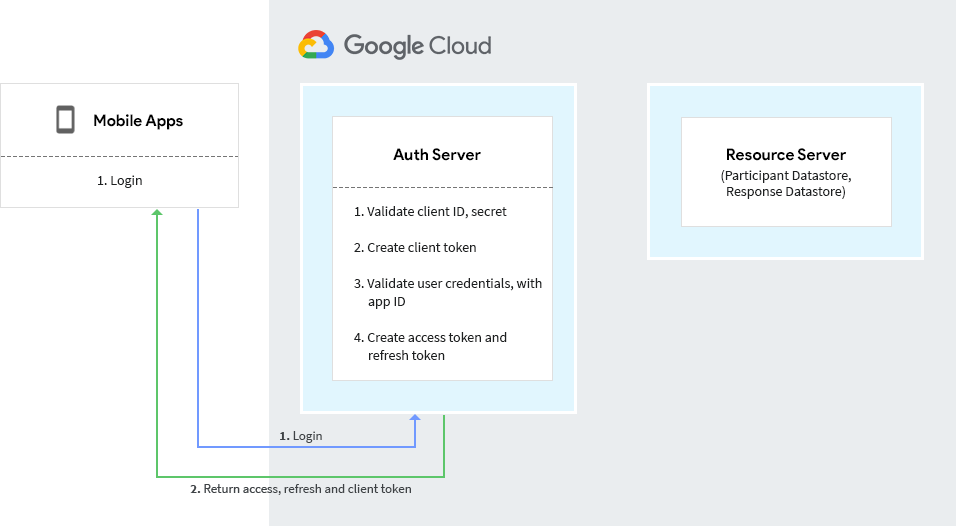
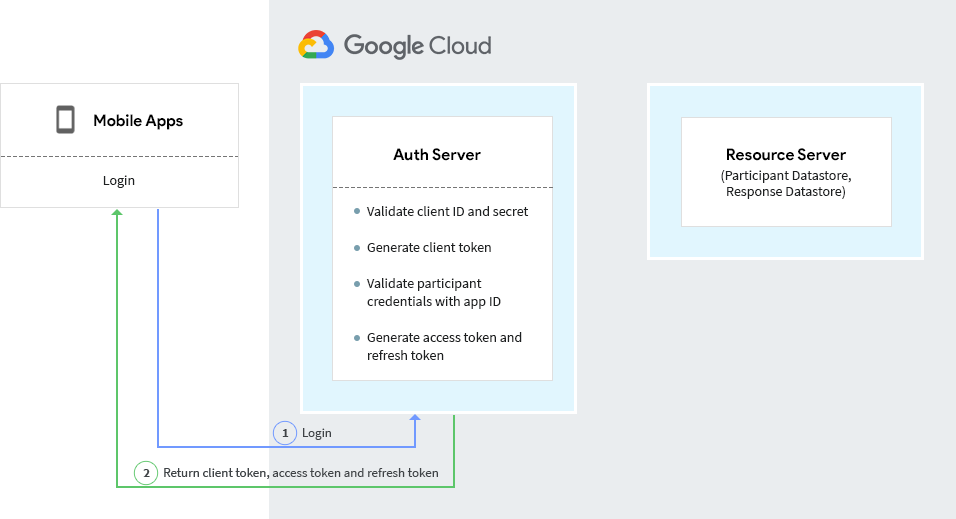
Fixed images, added a new image and modified text/sections in the auth.md document

diff --git a/documentation/auth.md b/documentation/auth.md
@@ -121,16 +121,24 @@ Participants (mobile app users) are authenticated through the login method of th
 The mobile app sends a logout request to the Auth Server. The Auth Server then retrieves the access token from the request and clears the row in the sessions table, which has the access token.
 
 ### Validate Access Token
+
 ![alt_text](images/auth_validate_token.png "Validate access token diagram")
 
 1.  When a mobile app requests access to a protected resource, it passes the client token and access token to the resource server.
-1.  The resource server sends the access token and client token to the Auth Server for validation.
-1.  The Auth Server validates that the token is valid and has not expired.
-1.  If the access token has expired, a message indicating expiry is passed to the resource server.
-1.  The resource server passes this message to the mobile app.
-1.  The mobile app sends the client token and the refresh token to the Auth Server.
-1.  The Auth Server validates the client token and the refresh token .
-1.  The Auth Server generates a new access token and returns it to the mobile app.
+2.  The resource server sends the client token and the access token to the Auth Server for validation.
+3.  The Auth Server validates that the client token and access token are valid and the access token has not expired.
+4.  If the tokens are valid, the resource server returns the requested resource.
+5.  If the clien token or the access token are not valid, the resource server returns an "Access Denied" message.
+
+### Refresh Access Token
+![alt_text](images/auth_refresh_token.png "Refresh access token diagram")
+1.  When a mobile app requests access to a protected resource, it passes the client token and access token to the resource server.
+2.  If the access token has expired, a message indicating expiry is passed to the resource server.
+3.  The resource server passes this message to the mobile app.
+4.  The mobile app sends the client token and the refresh token to the Auth Server.
+5.  The Auth Server validates the client token and the refresh token.
+6.  The Auth Server generates a new access token and returns it to the mobile app.
+
 
 ### Server to Server Authorization
 
@@ -140,3 +148,4 @@ The mobile app sends a logout request to the Auth Server. The Auth Server then r
 1.  The recipient server calls the Auth Server to validate the client credentials and process the call if the credentials are valid.
 1.  The client ID and secret for all Auth Server clients are created before deployment and stored in both the Auth Server database and the client application property file. 
 1.  If the client ID and/or secret are changed, it will require a redeployment of the client application.
+
